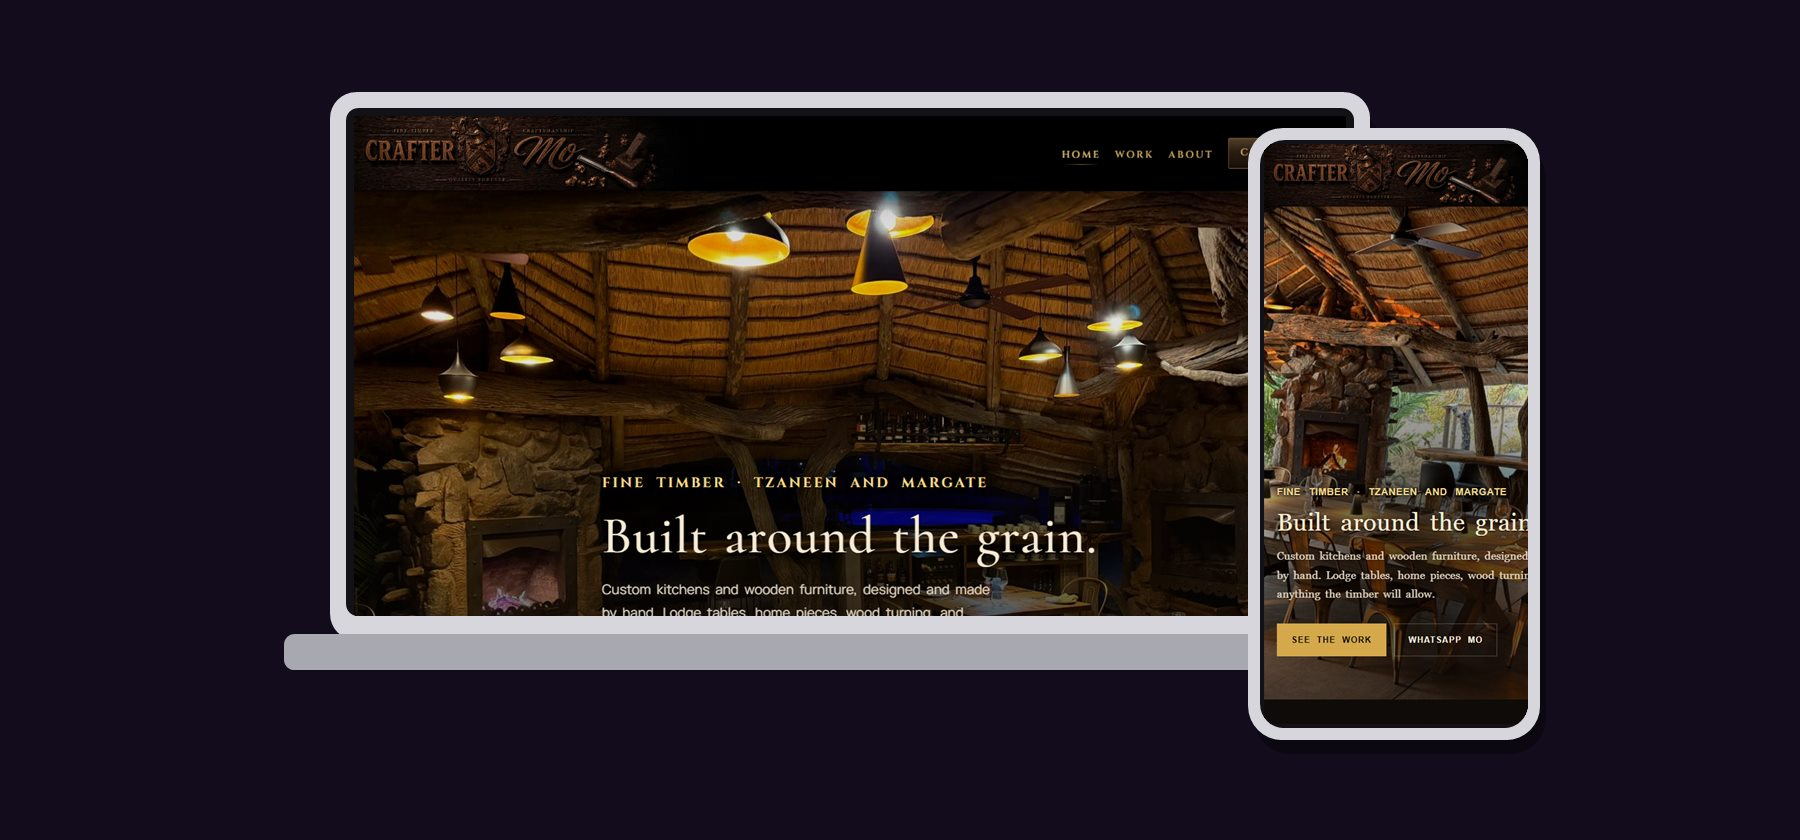
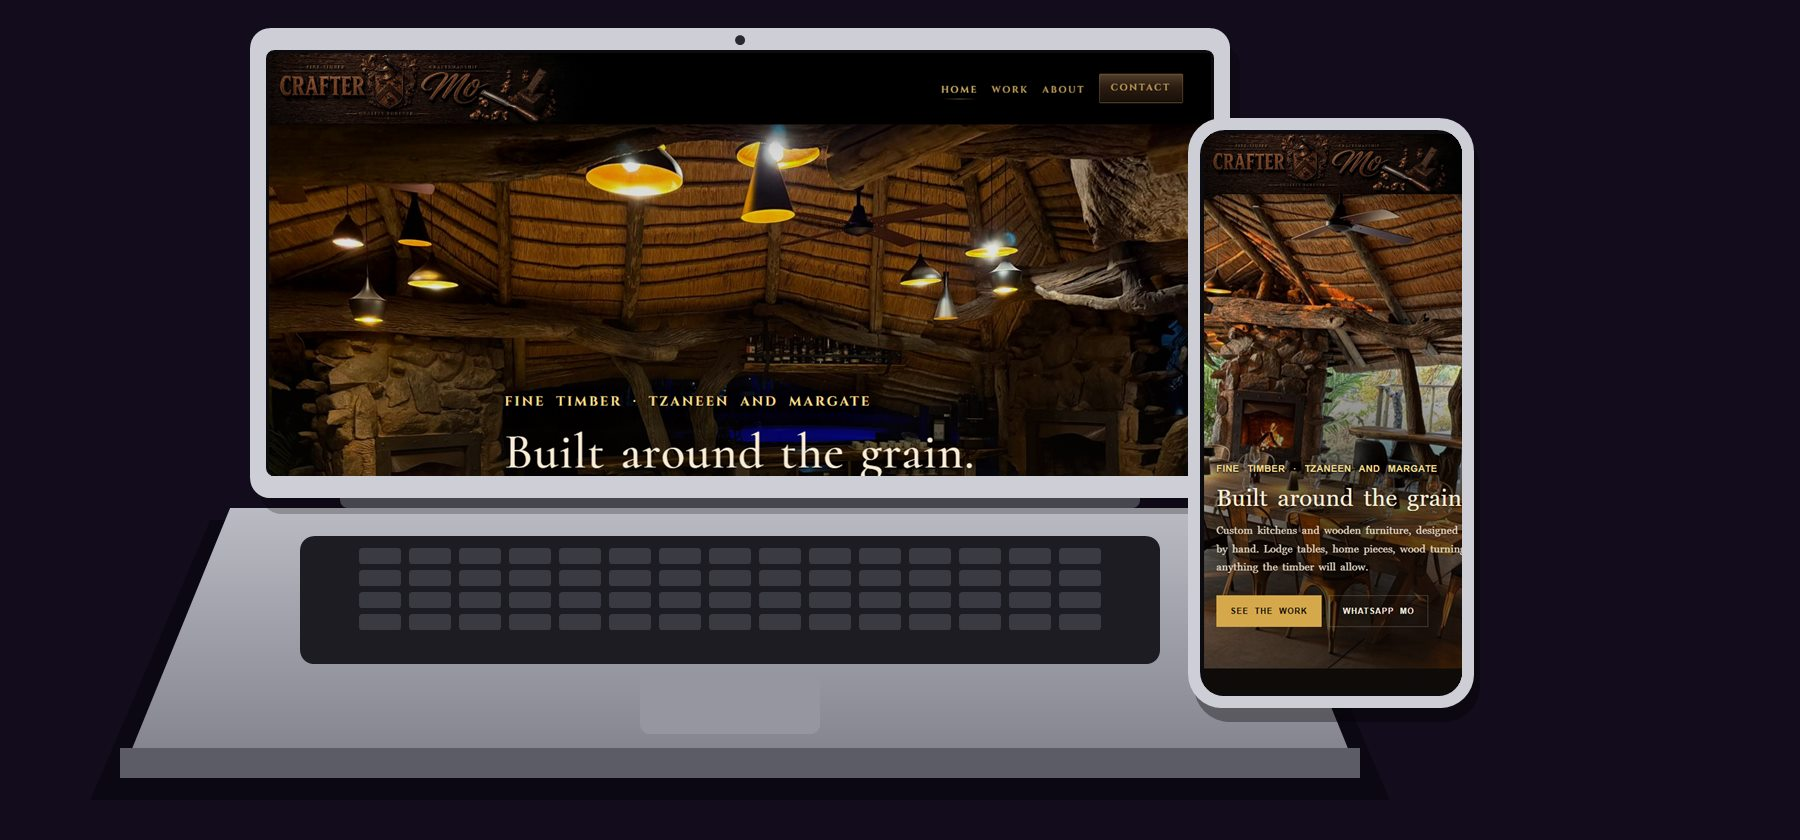
Give the shipped-work laptops a screen, hinge, and keyboard.

diff --git a/services/index.html b/services/index.html
@@ -376,7 +376,7 @@
           >
             <img
               class="is-devices"
-              src="/assets/crafter-mo-devices.jpg?v=desk1"
+              src="/assets/crafter-mo-devices.jpg?v=desk2"
               alt=""
               width="1800"
               height="840"
@@ -448,7 +448,7 @@
           >
             <img
               class="is-devices"
-              src="/assets/steel-and-safari-devices.jpg?v=desk1"
+              src="/assets/steel-and-safari-devices.jpg?v=desk2"
               alt=""
               width="1800"
               height="840"
